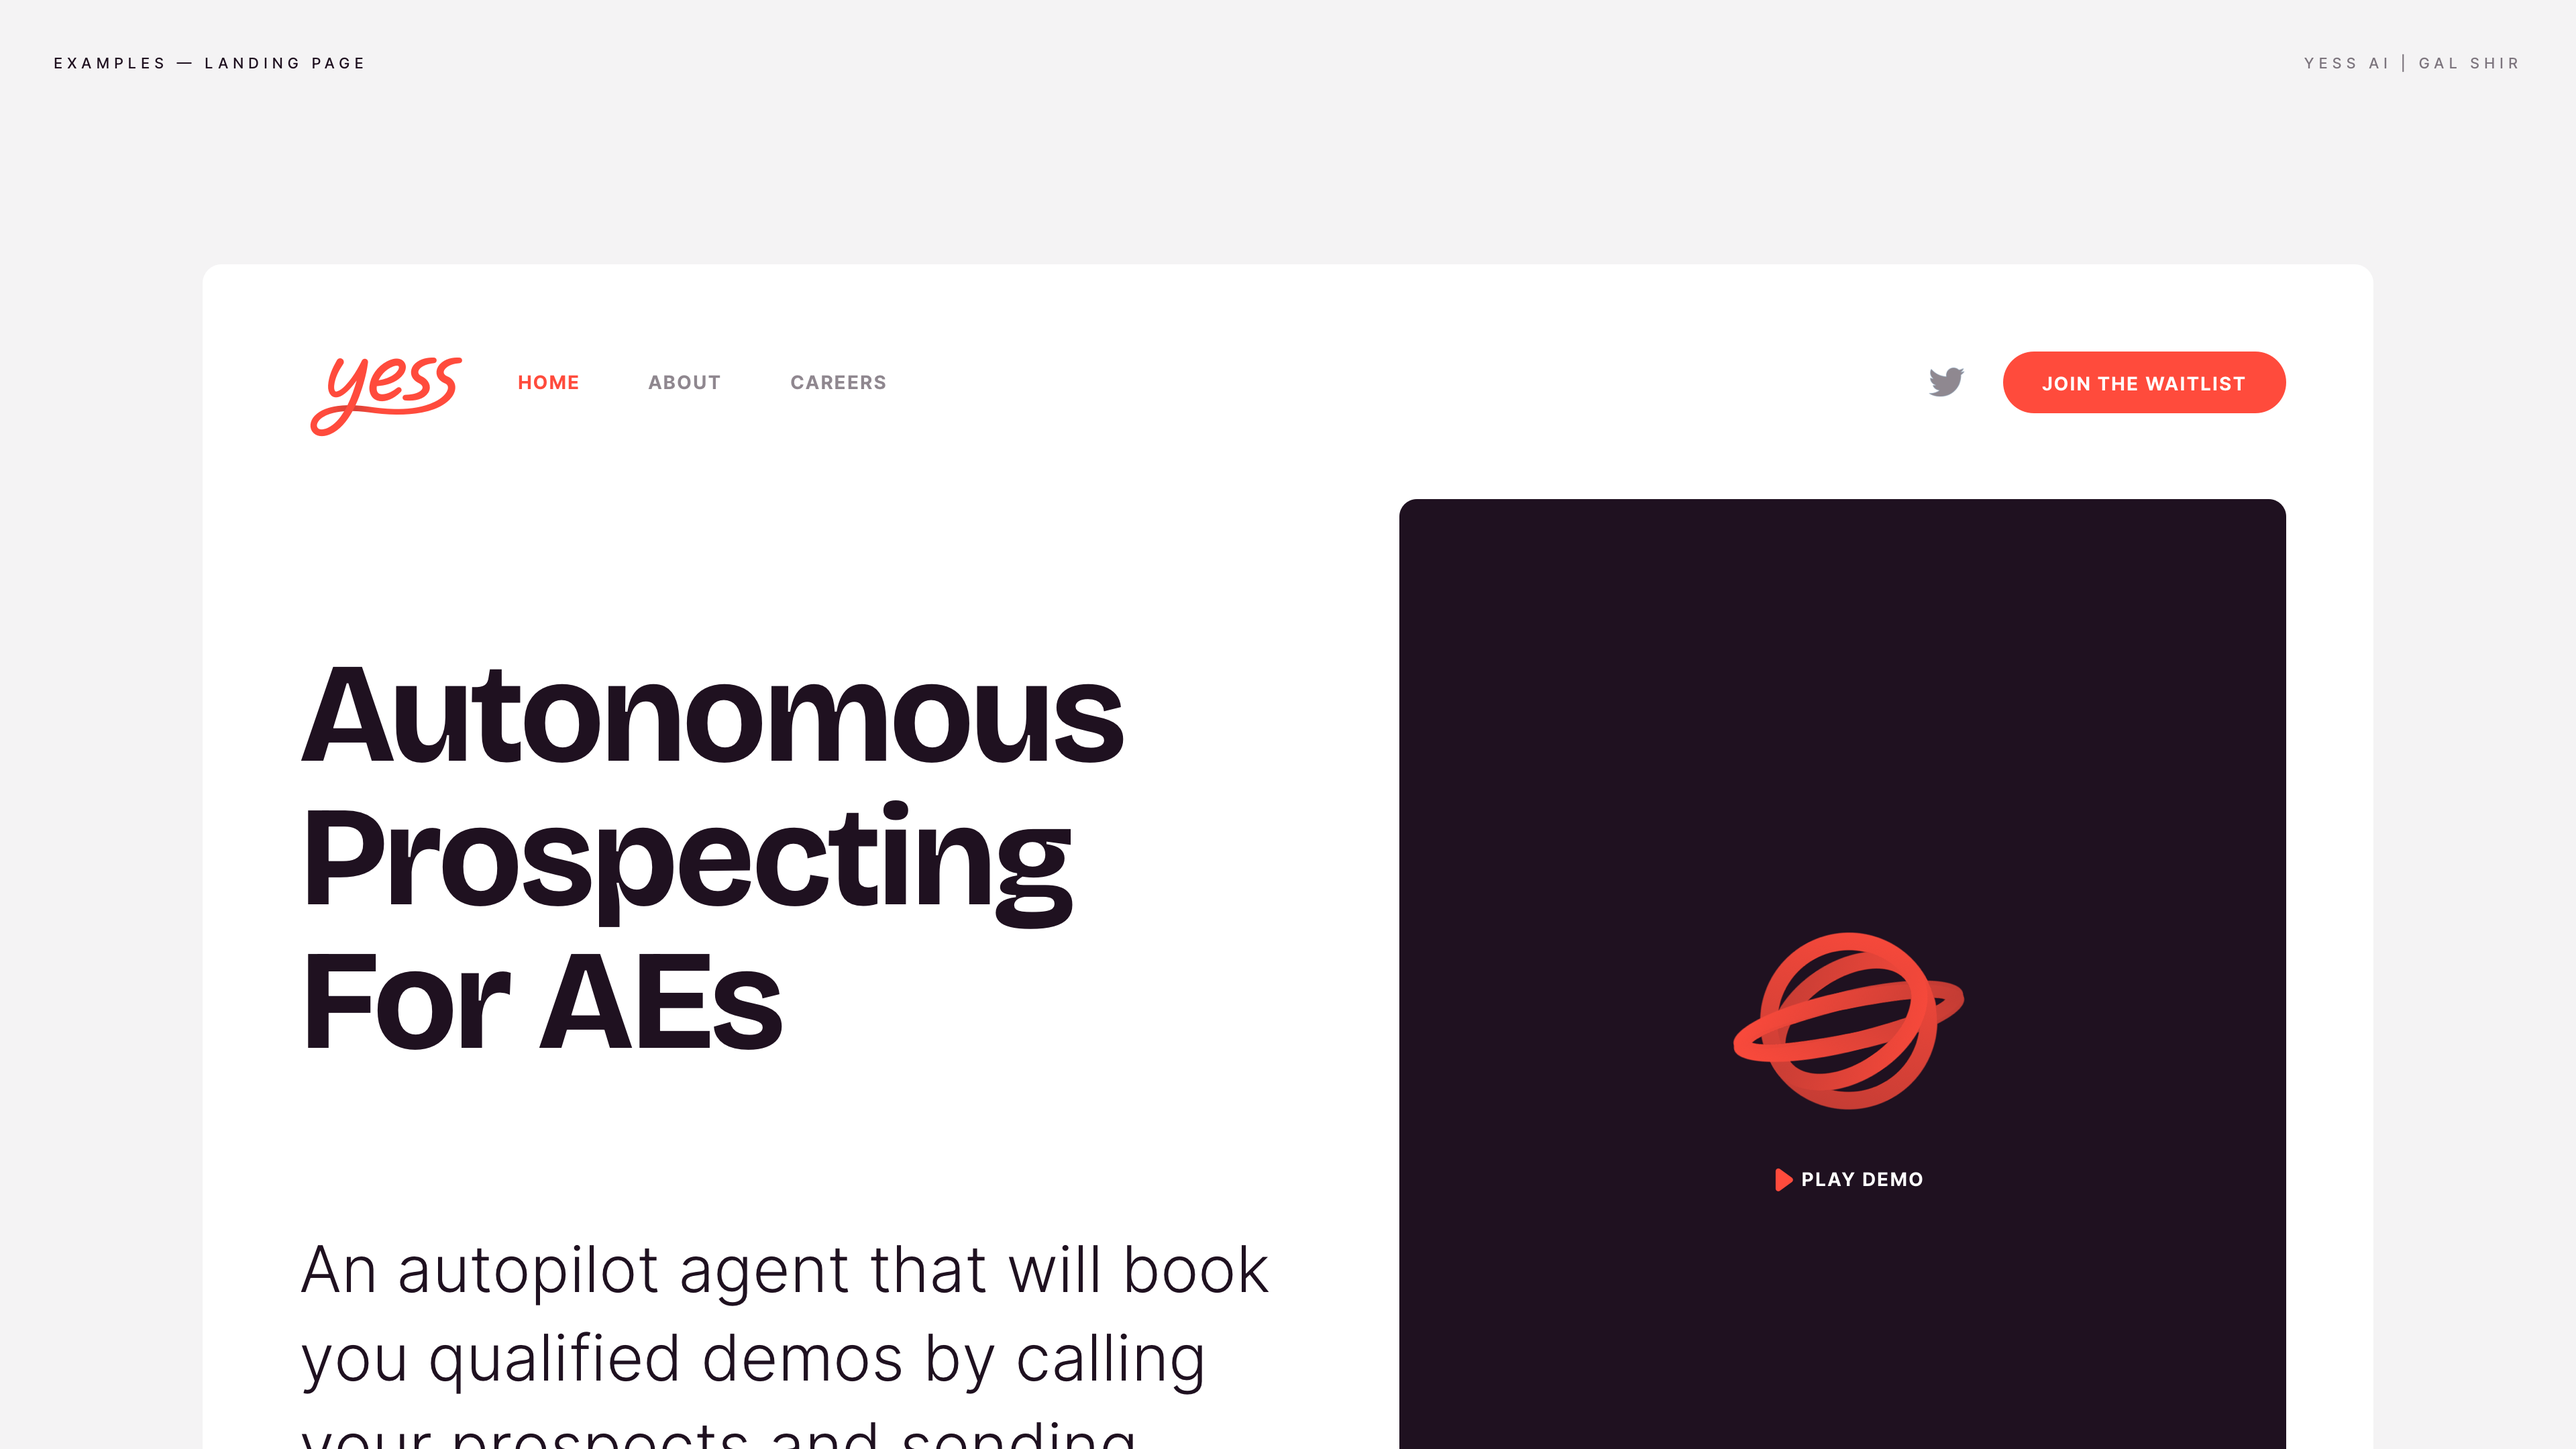
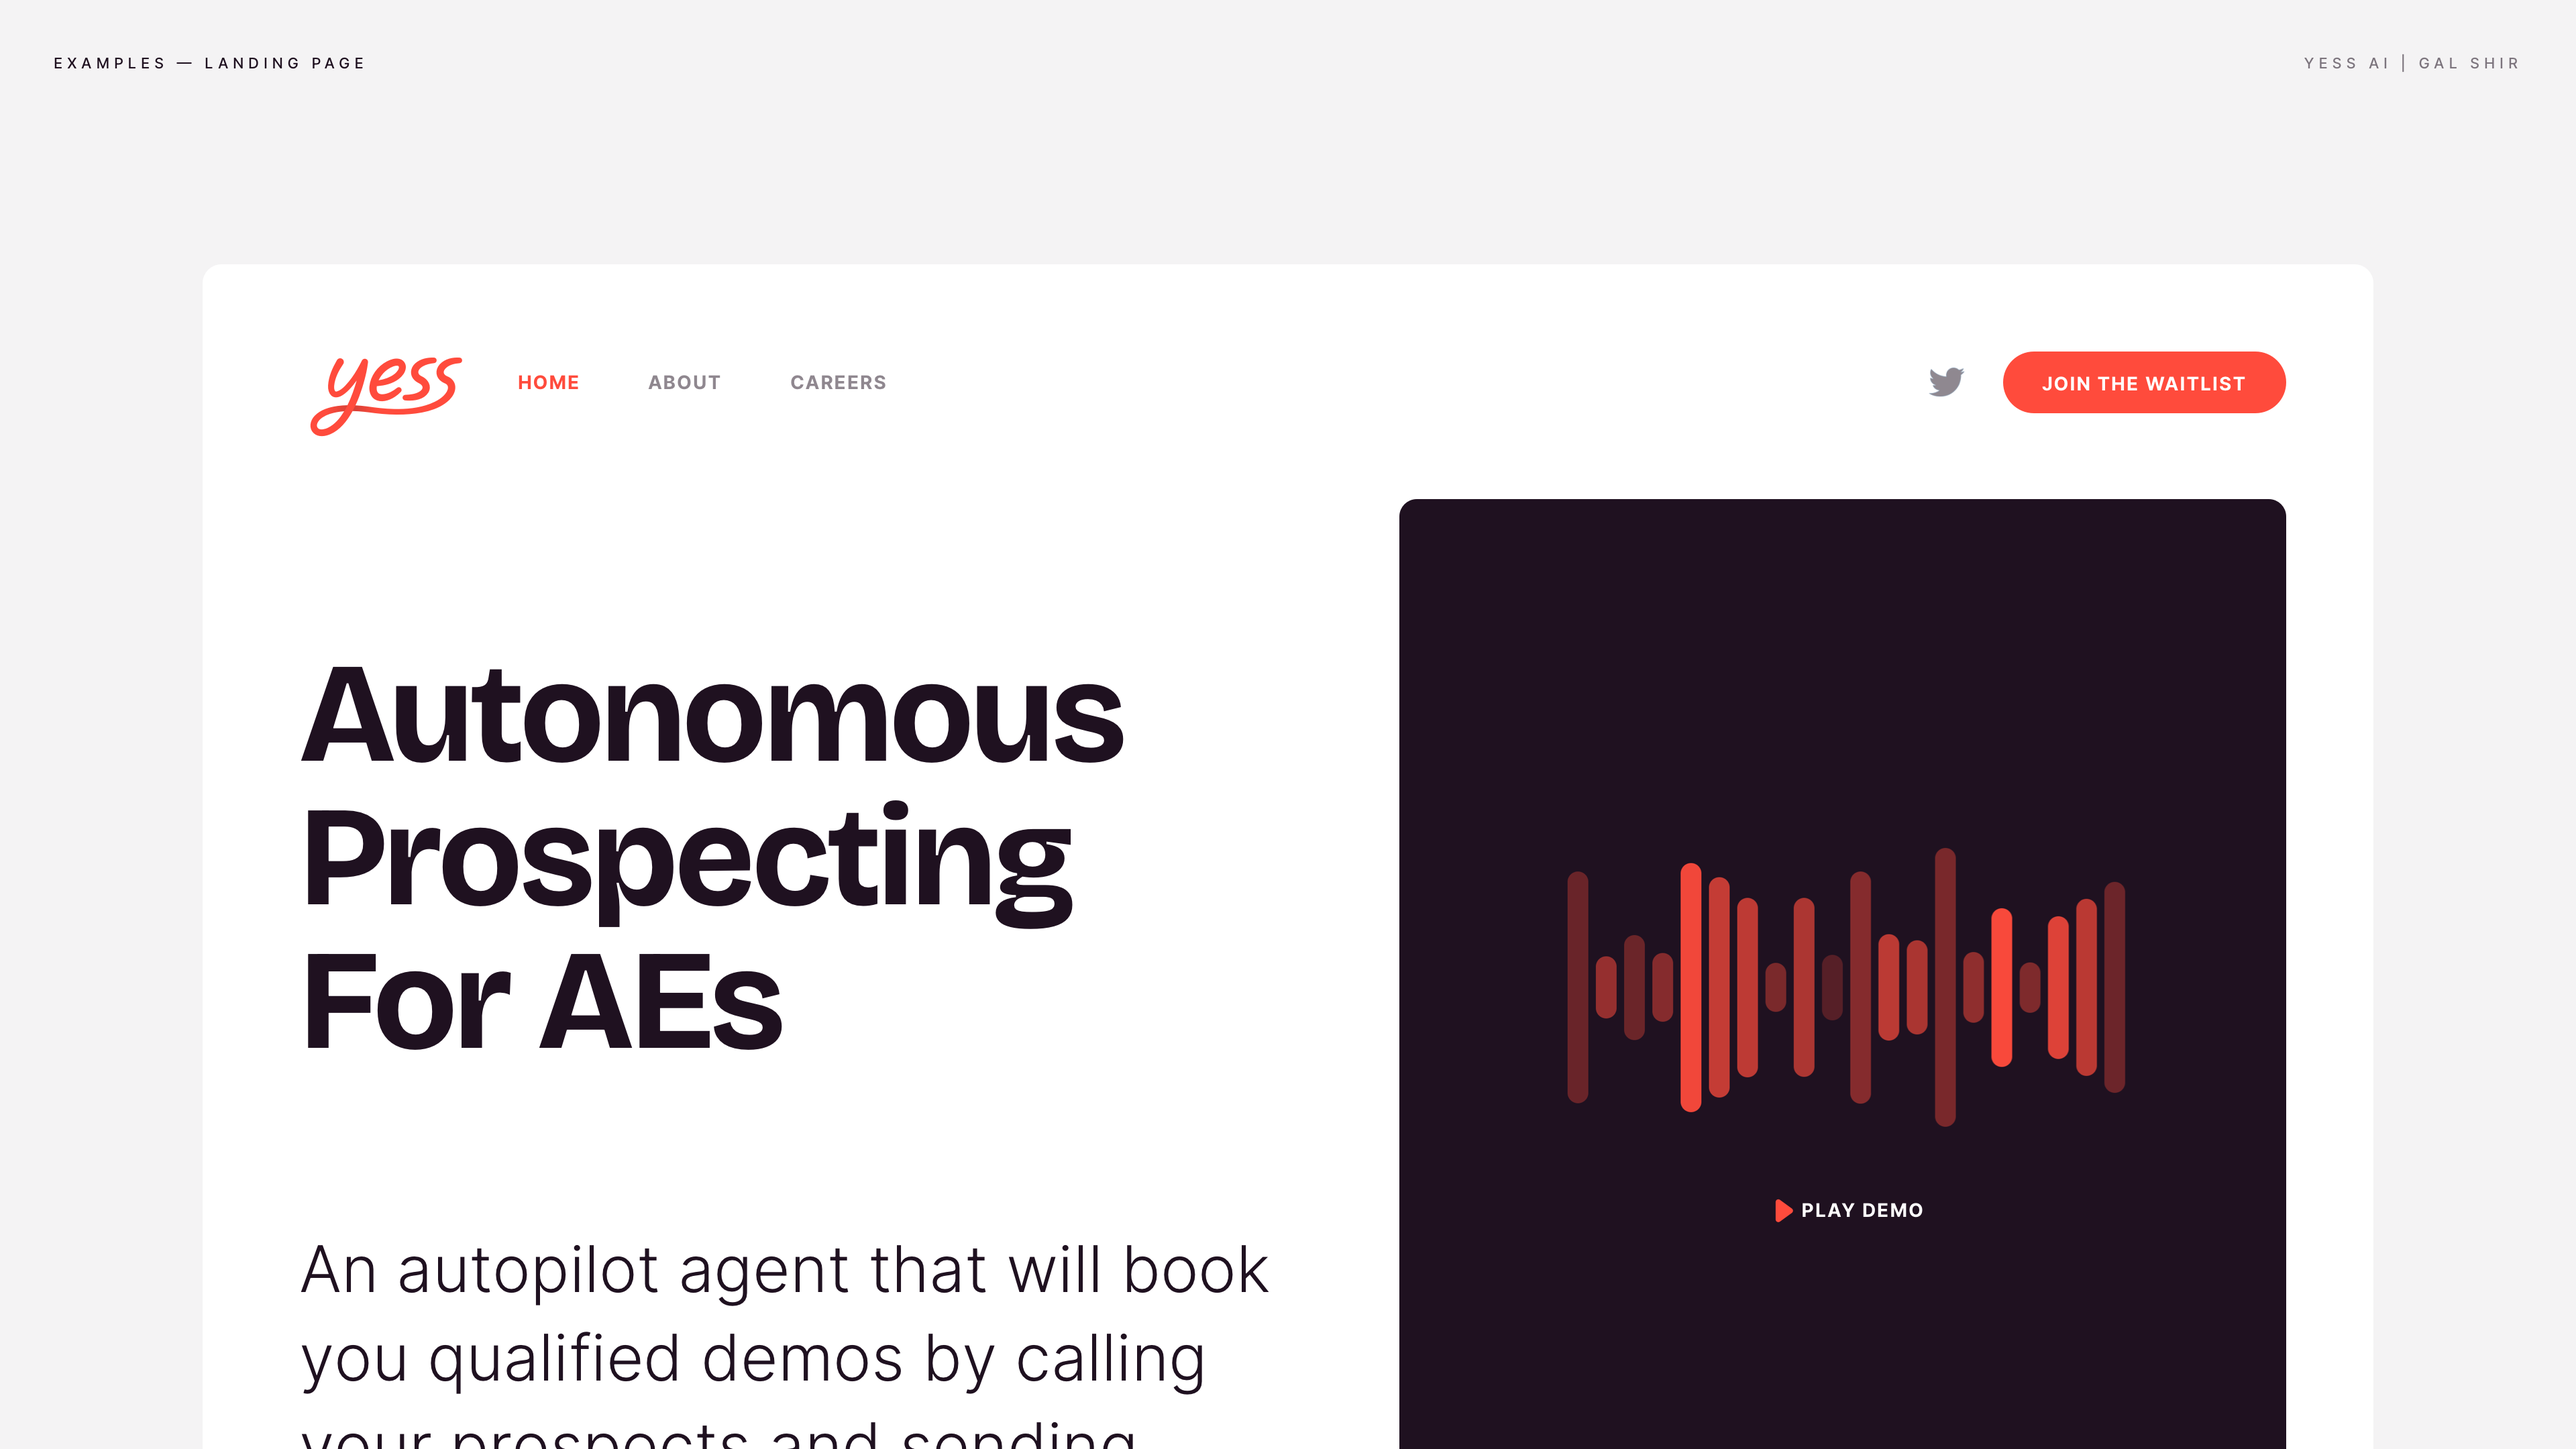
a

Changed region(s): [[0.5938, 0.5894, 0.8438, 0.7755], [0.6875, 0.8065, 0.75, 0.8375]]

diff --git a/projects/yess/2/index.html b/projects/yess/2/index.html
@@ -3,7 +3,7 @@
 <link href="../../presentation.css" rel="stylesheet" media="all" />
 <style>
 .slide {
-	background:#E2DDE2;
+	background:#CDD5E1;
 	position: relative;
 }
 #animation-container {
@@ -16,38 +16,7 @@
 	width: 600px;
 	height: 300px;
 }
-#animation-container div {
-	animation-name:rotate;
-	animation-iteration-count: infinite;
-	animation-timing-function: linear;
-	animation-duration: 5s;
-	position: relative;
-	mix-blend-mode: lighten;
-	position: absolute;
-	background-image: linear-gradient(225deg, #FF4B3C 0%, #BC3A33 100%);
-	box-sizing: border-box;
-	transition: all cubic-bezier(0.8,0,0.2,1);
-}
-@keyframes rotate {
-	0% { transform:rotate(0) }
-	100% { transform:rotate(360deg) }
-}
-#animation-container div:after {
-	content: " ";
-	width:calc(100% - 30px);
-	height:calc(100% - 30px);
-	border-radius: 100%;
-	background:black;
-	display: block;
-	position: absolute;
-	left:15px;
-	top:15px;
-	box-sizing: border-box;
-}
 
-#animation-container div:nth-child(even) {
-	animation-direction: reverse;
-}
 
 
 </style>
@@ -78,34 +47,32 @@
 
 <script>
 
-amount = 4
+amount = 20
 bpm = 80
 
 beat()
 
 
-
 i = 1
 while ( i <= amount ) {
-	size = $('#animation-container').css('width').replace('px','')
 	item = $('<div></div>').css({
-		'border-radius':'100%',
-		'animation-duration': i*10000/amount+'ms'
+		'width': '100px',
+		'background': '#FF4B3C',
+		'margin':'4px',
+		'border-radius':'100px'
 	})
 	$('#animation-container').append(item)
 	i++
 }
 
-
-
-
 function beat() {
 	setTimeout(function() {
 
+
 		$('#animation-container div').each(function() {
 			$(this).css({
-				'height':random(1, 5)*60+'px',
-				'width':random(1, 5)*60+'px',
+				'height':random(50, 300)+'px',
+				'opacity': random(10,100)+'%',
 				'transition': 'all '+60000/bpm+'ms cubic-bezier(0.8,0,0.2,1)',
 			})
 		})
@@ -120,5 +87,6 @@ function beat() {
 function random(min,max) {
 	return Math.floor(Math.random() * (max + 1 - min) + min);
 }
+
 
 </script>
